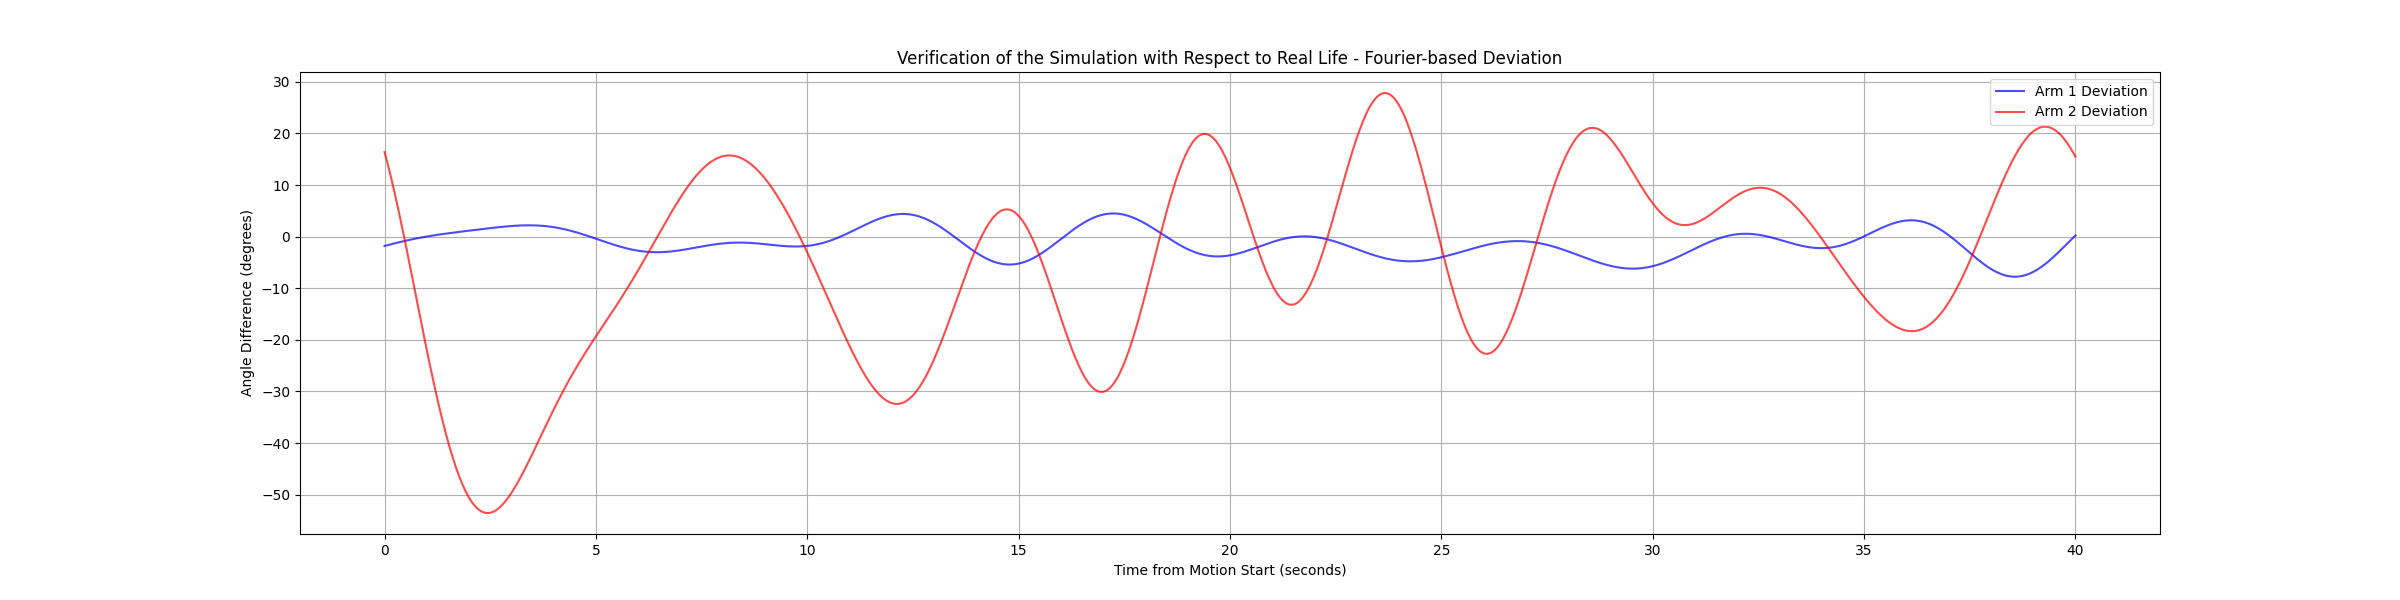
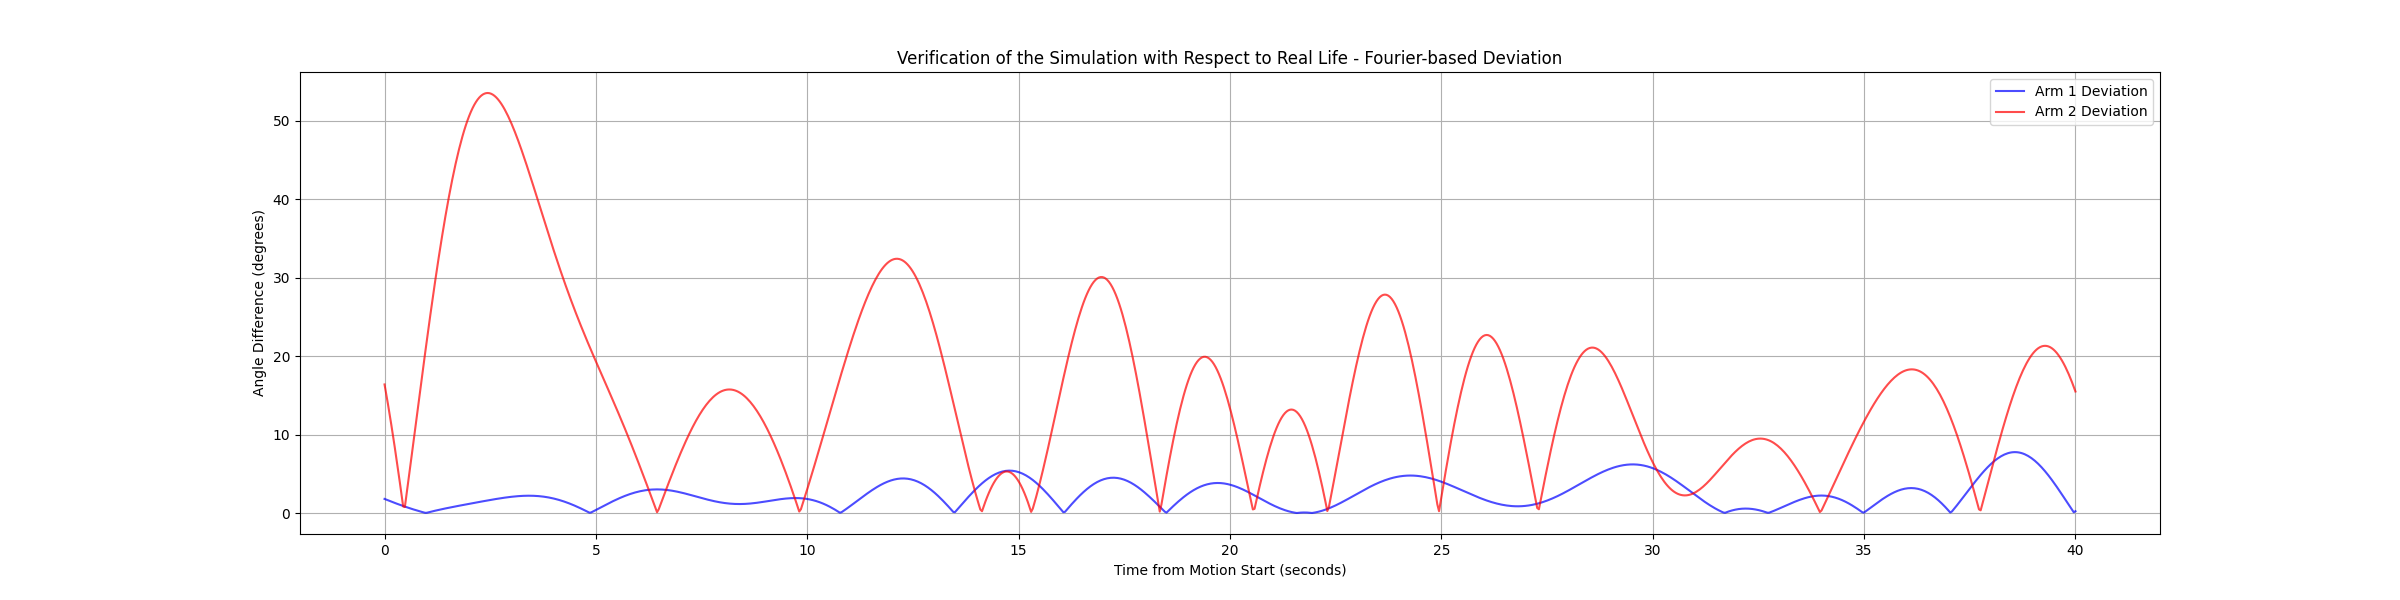
README updates

diff --git a/Verification/verificiation.py b/Verification/verificiation.py
@@ -144,8 +144,8 @@ def plot_deviation(arm1: List[PendulumData], arm2: List[PendulumData],
     sim_fit2 = fit_and_extend(sim_t2, sim_ang2, common_t)
 
     plt.figure(figsize=(24, 6))
-    plt.plot(common_t, vid_fit1 - sim_fit1, label="Arm 1 Deviation", color='b', alpha=0.7)
-    plt.plot(common_t, vid_fit2 - sim_fit2, label="Arm 2 Deviation", color='r', alpha=0.7)
+    plt.plot(common_t, np.abs(vid_fit1 - sim_fit1), label="Arm 1 Deviation", color='b', alpha=0.7)
+    plt.plot(common_t, np.abs(vid_fit2 - sim_fit2), label="Arm 2 Deviation", color='r', alpha=0.7)
     plt.xlabel("Time from Motion Start (seconds)")
     plt.ylabel("Angle Difference (degrees)")
     plt.title(f"{CONFIG['title']} - Fourier-based Deviation")
@@ -196,6 +196,7 @@ def plot_fourier_comparison(vid_data: LEDData, sim_data: List[PendulumData],
     ax2.legend()
     ax2.grid(True)
     
+
     plt.suptitle(f"Arm {arm_num} - Fourier Series Comparison")
     plt.tight_layout()
     plt.savefig(f"{CONFIG['ver_outpath']}Fourier_Comparison_Arm{arm_num}.png")

diff --git a/Verification/README.md b/Verification/README.md
@@ -1,0 +1,123 @@
+# Content
+
+- [Goal](#goal)
+- [The Code](#the-code)
+    - [Fourier Functions](#fourier-functions)
+        - [fourier_series](#fourier_series)
+            - [Parameters](#parameters)
+            - [Function Description](#function-description)
+        - [fit_fourier](#fit_fourier)
+            - [Parameters](#Parameters-1)
+            - [Function Description](#function-description-1)
+    - [Graphing Functions](#graphing-functions)
+        - [plot_fourier_comparison](#plot_fourier_comparison)
+        - [plot_deviation](#plot_deviation)
+- [Results](#results)
+
+# Goal  
+
+The idea is to find the angular deviation of the simulation from reality. So at every point we want to take the video processing's position and subtract the simulations position, then graph it.  
+
+The hope would be to see a flat portion at the very start (for both arms) then as damping takes over the real system it will deviate from simulation.  
+
+# The Code  
+
+Initially we were just going to take the discrete data saved in .txt files on our local device and subtract them at every time. The issue with this is that the sample rate of the simulation data is different than the frame rate of the video processing data. Comparison proved to be hard using discrete data, so TA Holden helped us come up with an idea to fit a continuous function via Fourier transforms, then take the difference of those.
+
+## Fourier Functions  
+
+It was fast to impliment this in code, adding two functions:  
+
+### fourier_series:  
+
+This function evaluates a Fourier series at specified time points, given the series' coefficients and period. It is designed for users with a background in physics and introductory programming knowledge.
+
+#### Parameters  
+
+  - "t" (np.ndarray): Array of time points where the series is evaluated.
+  - "T" (float): Period of the Fourier series. Automatically clamped to a minimum value of `1e-6` to avoid division by zero.
+  - "*coefficients": Variable-length coefficients in the order:
+  - "a₀" (constant term),
+  - "a₁, b₁, a₂, b₂, ..." (coefficients for the cosine and sine terms of increasing harmonic order).
+
+#### Function Description  
+
+The function constructs the Fourier series:  
+
+$$f(t)=a_0 + \underset{\sigma}{n}\left(a_n\cdot\cos(2\pi n \frac{t}{T}) + b_n\cdot\sin(2\pi n \frac{t}{T})\right)$$  
+
+where:  
+   - "a₀" is the zeroth coefficient (constant term),
+   - "aₙ" and "bₙ" are the coefficients for the "n"-th harmonic cosine and sine terms,
+   - "T" is the period of the series.
+
+Note:  
+   - Coefficients are provided as "a₀, a₁, b₁, a₂, b₂, ...".
+   - Missing coefficients are treated as "0.0". For example, if "coefficients = [a₀, a₁, b₁, a₂]", the "b₂" term is automatically set to "0".
+   - If no coefficients are provided, the result is a zero array.
+
+### fit_fourier:  
+
+This function fits a Fourier series to input data "(t, y)" using nonlinear least squares optimization. It returns the fitted coefficients and the evaluated Fourier series at the input time points. Designed for users familiar with signal processing and basic numerical methods.
+
+#### Parameters
+  - "t" (np.ndarray): Time points of the input data (1D array).
+  - "y" (np.ndarray): Observed data values to fit (1D array, same length as "t").
+  - "num_terms" (int, optional): Number of harmonic terms to include in the Fourier series. Default: "10".
+
+Returns:  
+  - "Tuple[np.ndarray, np.ndarray]": 
+  - First array: Fitted coefficients in the order "[a₀, a₁, b₁, a₂, b₂, ...]".
+  - Second array: Fitted values of the Fourier series at the input time points "t".
+
+#### Function Description  
+
+The function performs the following steps:  
+
+1. Period Determination: 
+   - The period "T" is set to "t[-1]" (assumes the data spans one full period from "t=0" to "t=T"). 
+   - If "t" is empty, "T" defaults to "1.0" to avoid division by zero.
+
+2. Initial Guess:
+   - The constant term "a₀" is initialized to the mean of "y".
+   - All higher coefficients ("a₁, b₁, a₂, b₂, ...") are initialized to "0.0".
+
+3. Optimization:
+   - Uses "scipy.optimize.curve_fit" to minimize the error between the Fourier series (evaluated via "fourier_series") and the data "y".
+   - The period "T" is fixed during fitting.
+   - The maximum number of function evaluations ("maxfev") is set to "10000" to improve convergence.
+
+## Graphing Functions  
+
+Now we need some way to varify that the Fourier fit is accurately representing the discrete data. Then after that we also want to take the two Fourier fits for each arm and take the difference. These two things make up the graphing functions.  
+
+### plot_fourier_comparison:  
+
+This simply graphs the discrete data as a scatter plot and then plots the Fourier fit on the same graph. 
+
+### plot_deviation:  
+
+This simply takes the Fourier fit for the computer vision angles and subtracts the Fourier fit fro the simlation angles. This gives the deviation from real life of the simulation.  
+
+# Results  
+
+Here we get out the following two graphs for the Fourier fit of each arm data for both the simulation and computer vision data:  
+
+<div align="center">
+  <img src="./ver_outfiles/Fourier_Comparison_Arm1.png" alt="Graph 1" width="90%">
+  <p>Figure 1. Arm 1 data (computer vision on top, simulation on bottom).</p>
+</div>
+
+<div align="center">
+  <img src="./ver_outfiles/Fourier_Comparison_Arm2.png" alt="Graph 2" width="90%">
+  <p>Figure 2. Arm 2 data (computer vision on top, simulation on bottom).</p>
+</div>
+
+And the following angular deviation graph:
+
+<div align="center">
+  <img src="./ver_outfiles/Fourier_Deviation_Verification of the Simulation with Respect to Real Life.png" alt="Graph 3" width="90%">
+  <p>Figure 3. Computer vision Fourier fit minus the sim Fourier fit for both arms.</p>
+</div>
+
+This is a pretty solid angular deviation graph!  

diff --git a/README.md b/README.md
@@ -31,6 +31,20 @@
     - [Graphing Functions](Simulations/README.md#graphing-functions)
     - [Main](Simulations/README.md#main)
   - [Results](Simulations/README.md#results)
+- [Verification](Verification/README.md)
+  - [Goal](Verification/README.md#goal)
+  - [The Code](Verification/README.md#the-code)
+      - [Fourier Functions](Verification/README.md#fourier-functions)
+          - [fourier_series](Verification/README.md#fourier_series)
+              - [Parameters](Verification/README.md#parameters)
+              - [Function Description](Verification/README.md#function-description)
+          - [fit_fourier](Verification/README.md#fit_fourier)
+              - [Parameters](Verification/README.md#Parameters-1)
+              - [Function Description](Verification/README.md#function-description-1)
+      - [Graphing Functions](Verification/README.md#graphing-functions)
+          - [plot_fourier_comparison](Verification/README.md#plot_fourier_comparison)
+          - [plot_deviation](Verification/README.md#plot_deviation)
+  - [Results](Verification/README.md#results)
 - [Poster](#poster)
 - [Credits](#credits)
 
@@ -53,7 +67,12 @@ If you are a future group doing this lab and hope to code something cool, consid
 
 # Poster  
 
-Here is an attached image of our poster, to be made.  
+Here is a poster of our progress made for the first lab of IPL:  
+
+<div align="center">
+  <img src="./Assets/Adam and Chris - Modeling of a Chaotic Pendulum.png" alt="Poster" width="90%">
+  <p>Figure 2. Project Poster!</p>
+</div>
 
 # Presentation   
 

diff --git a/Simulations/README.md b/Simulations/README.md
@@ -384,4 +384,18 @@ Runs the simulation workflow and produces visual outputs (plots and animation).
 
 # Results  
 
-We aren't happy with the results yet, improvements to come probably.  
+The following graph of the motion is outputted:  
+
+<div align="center">
+  <img src="./sim_outfiles/Angle Comparison - Chaotic Pendulum Oscillation.png" alt="Graph 1" width="90%">
+  <p>Figure 2. Angle Comparison Graph.</p>
+</div>
+
+In order to gain confidence in this graph of motion, we also graphed the kinetic, potential and total energy:  
+
+<div align="center">
+  <img src="./sim_outfiles/Energy Analysis - Chaotic Pendulum Oscillation.png" alt="Graph 1" width="90%">
+  <p>Figure 4. Energy Analysis.</p>
+</div>
+
+For a further analysis of the validity of this graph, see [this README](../Verification/README.md).
